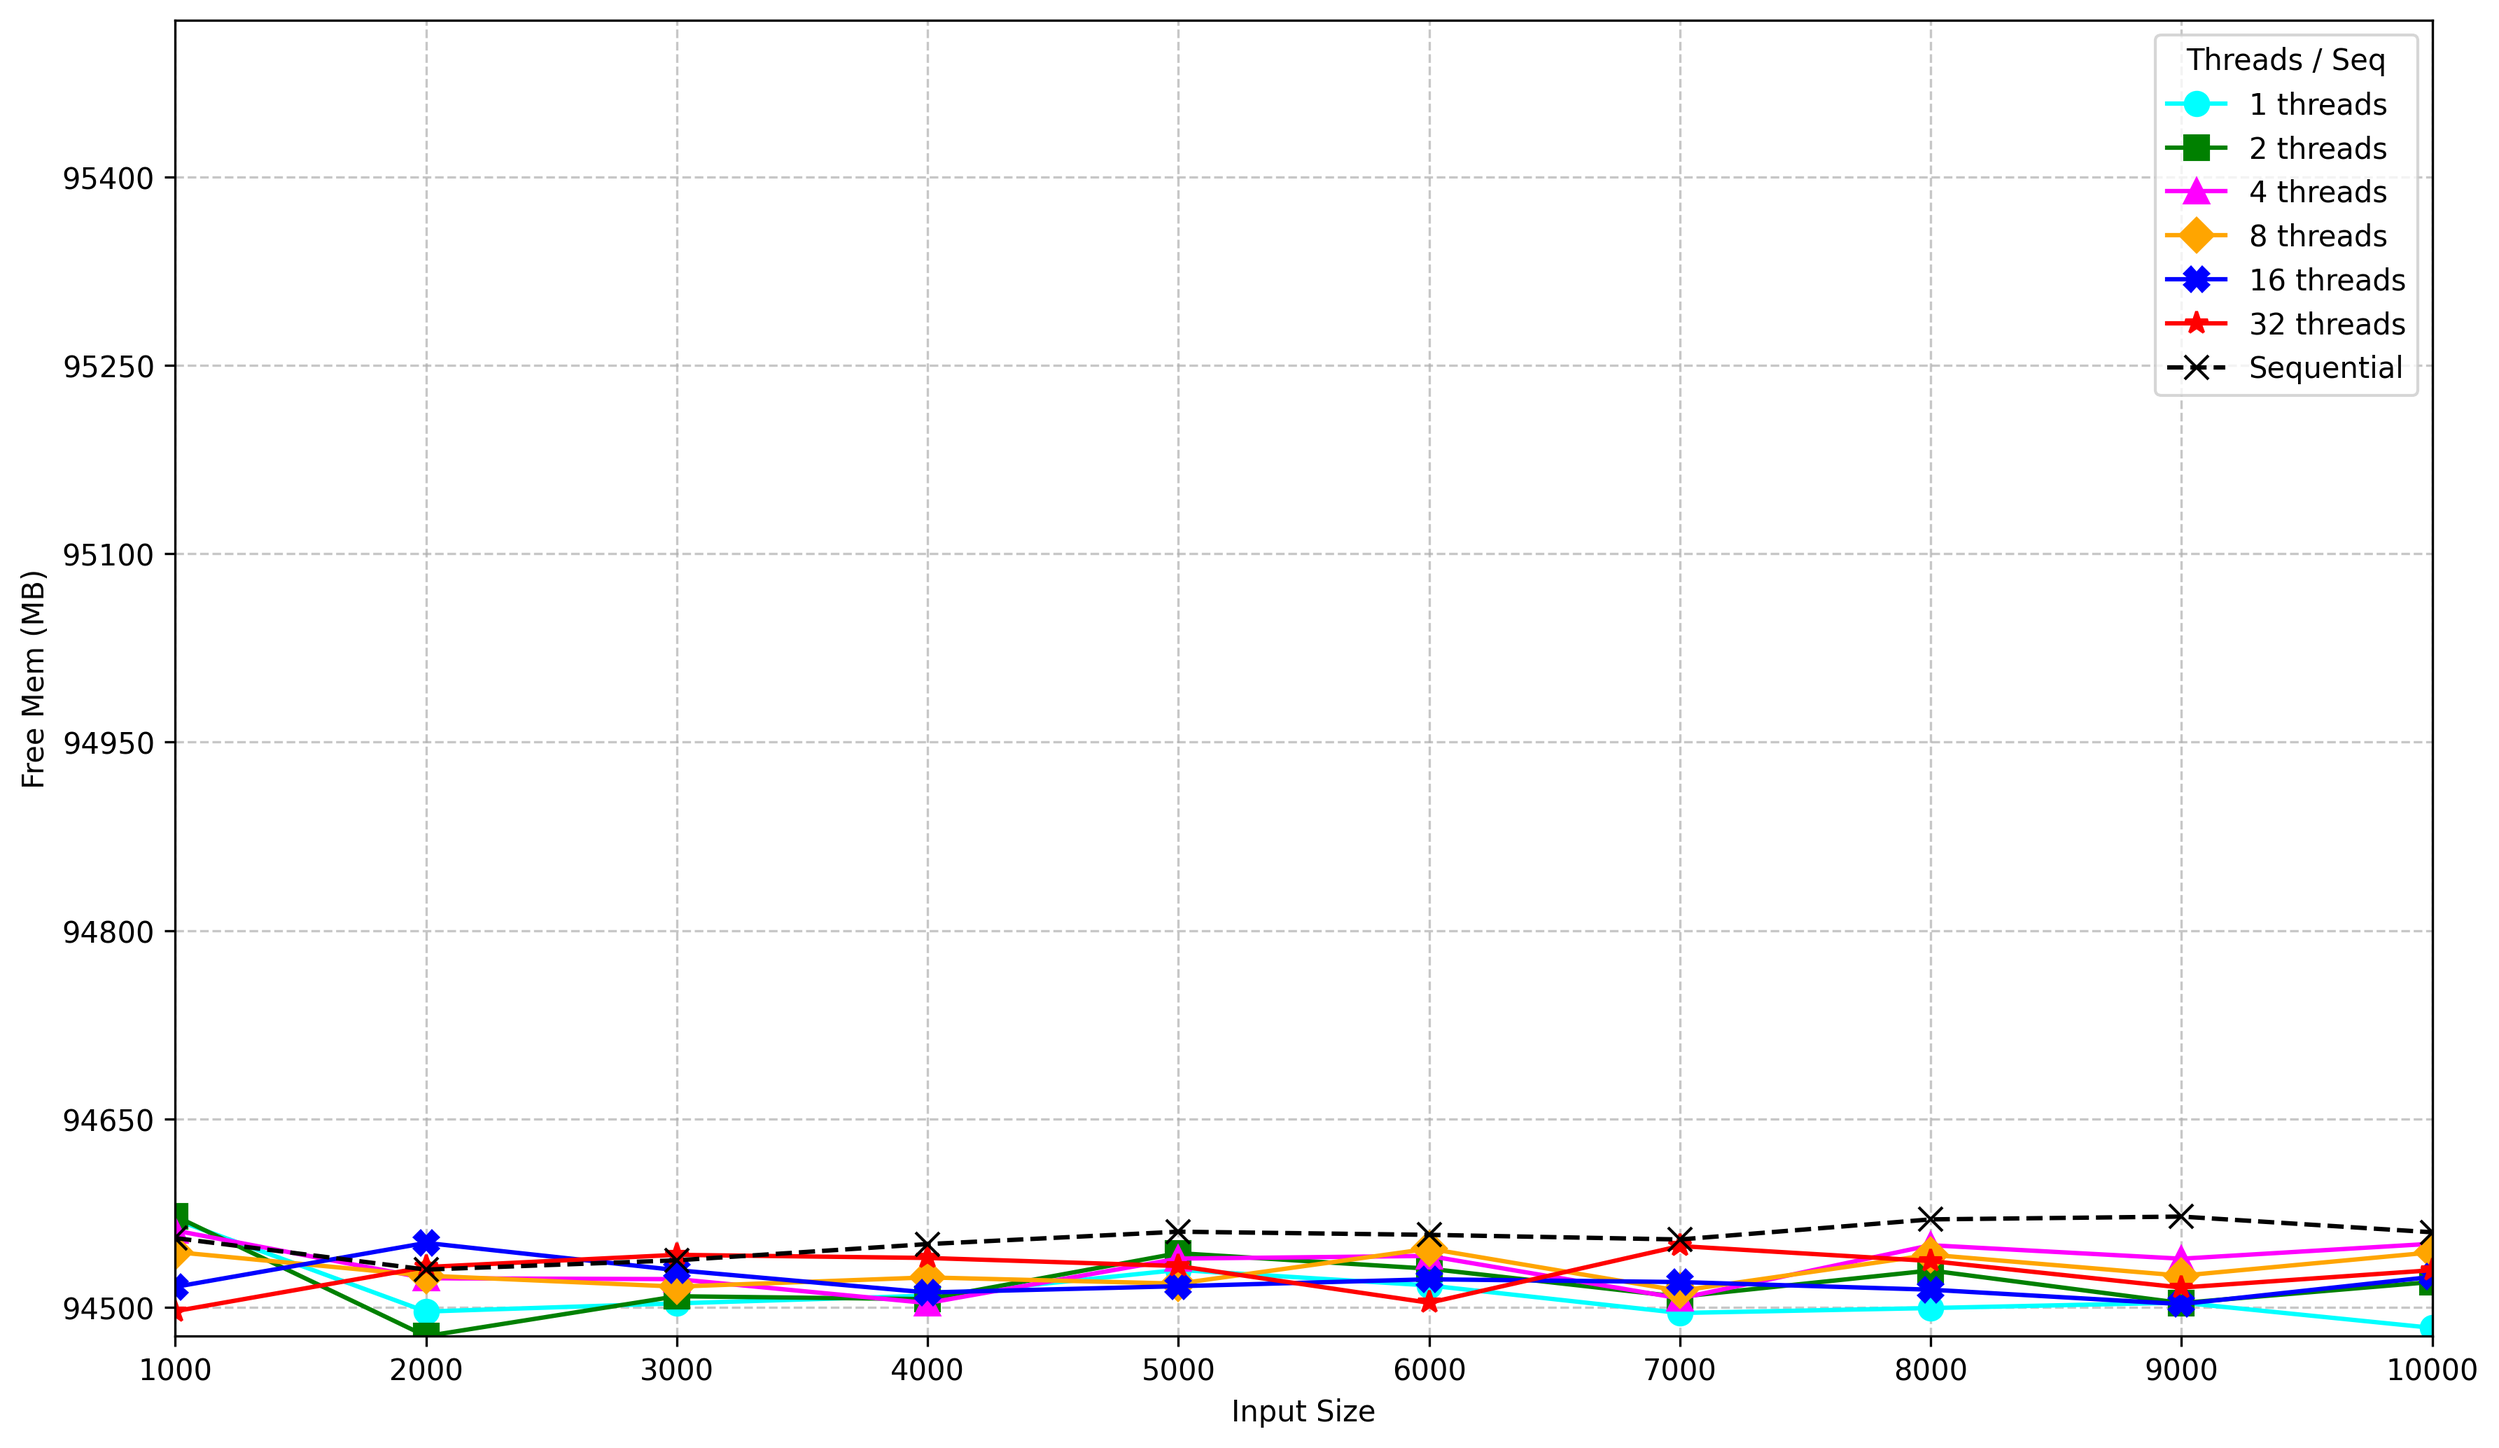
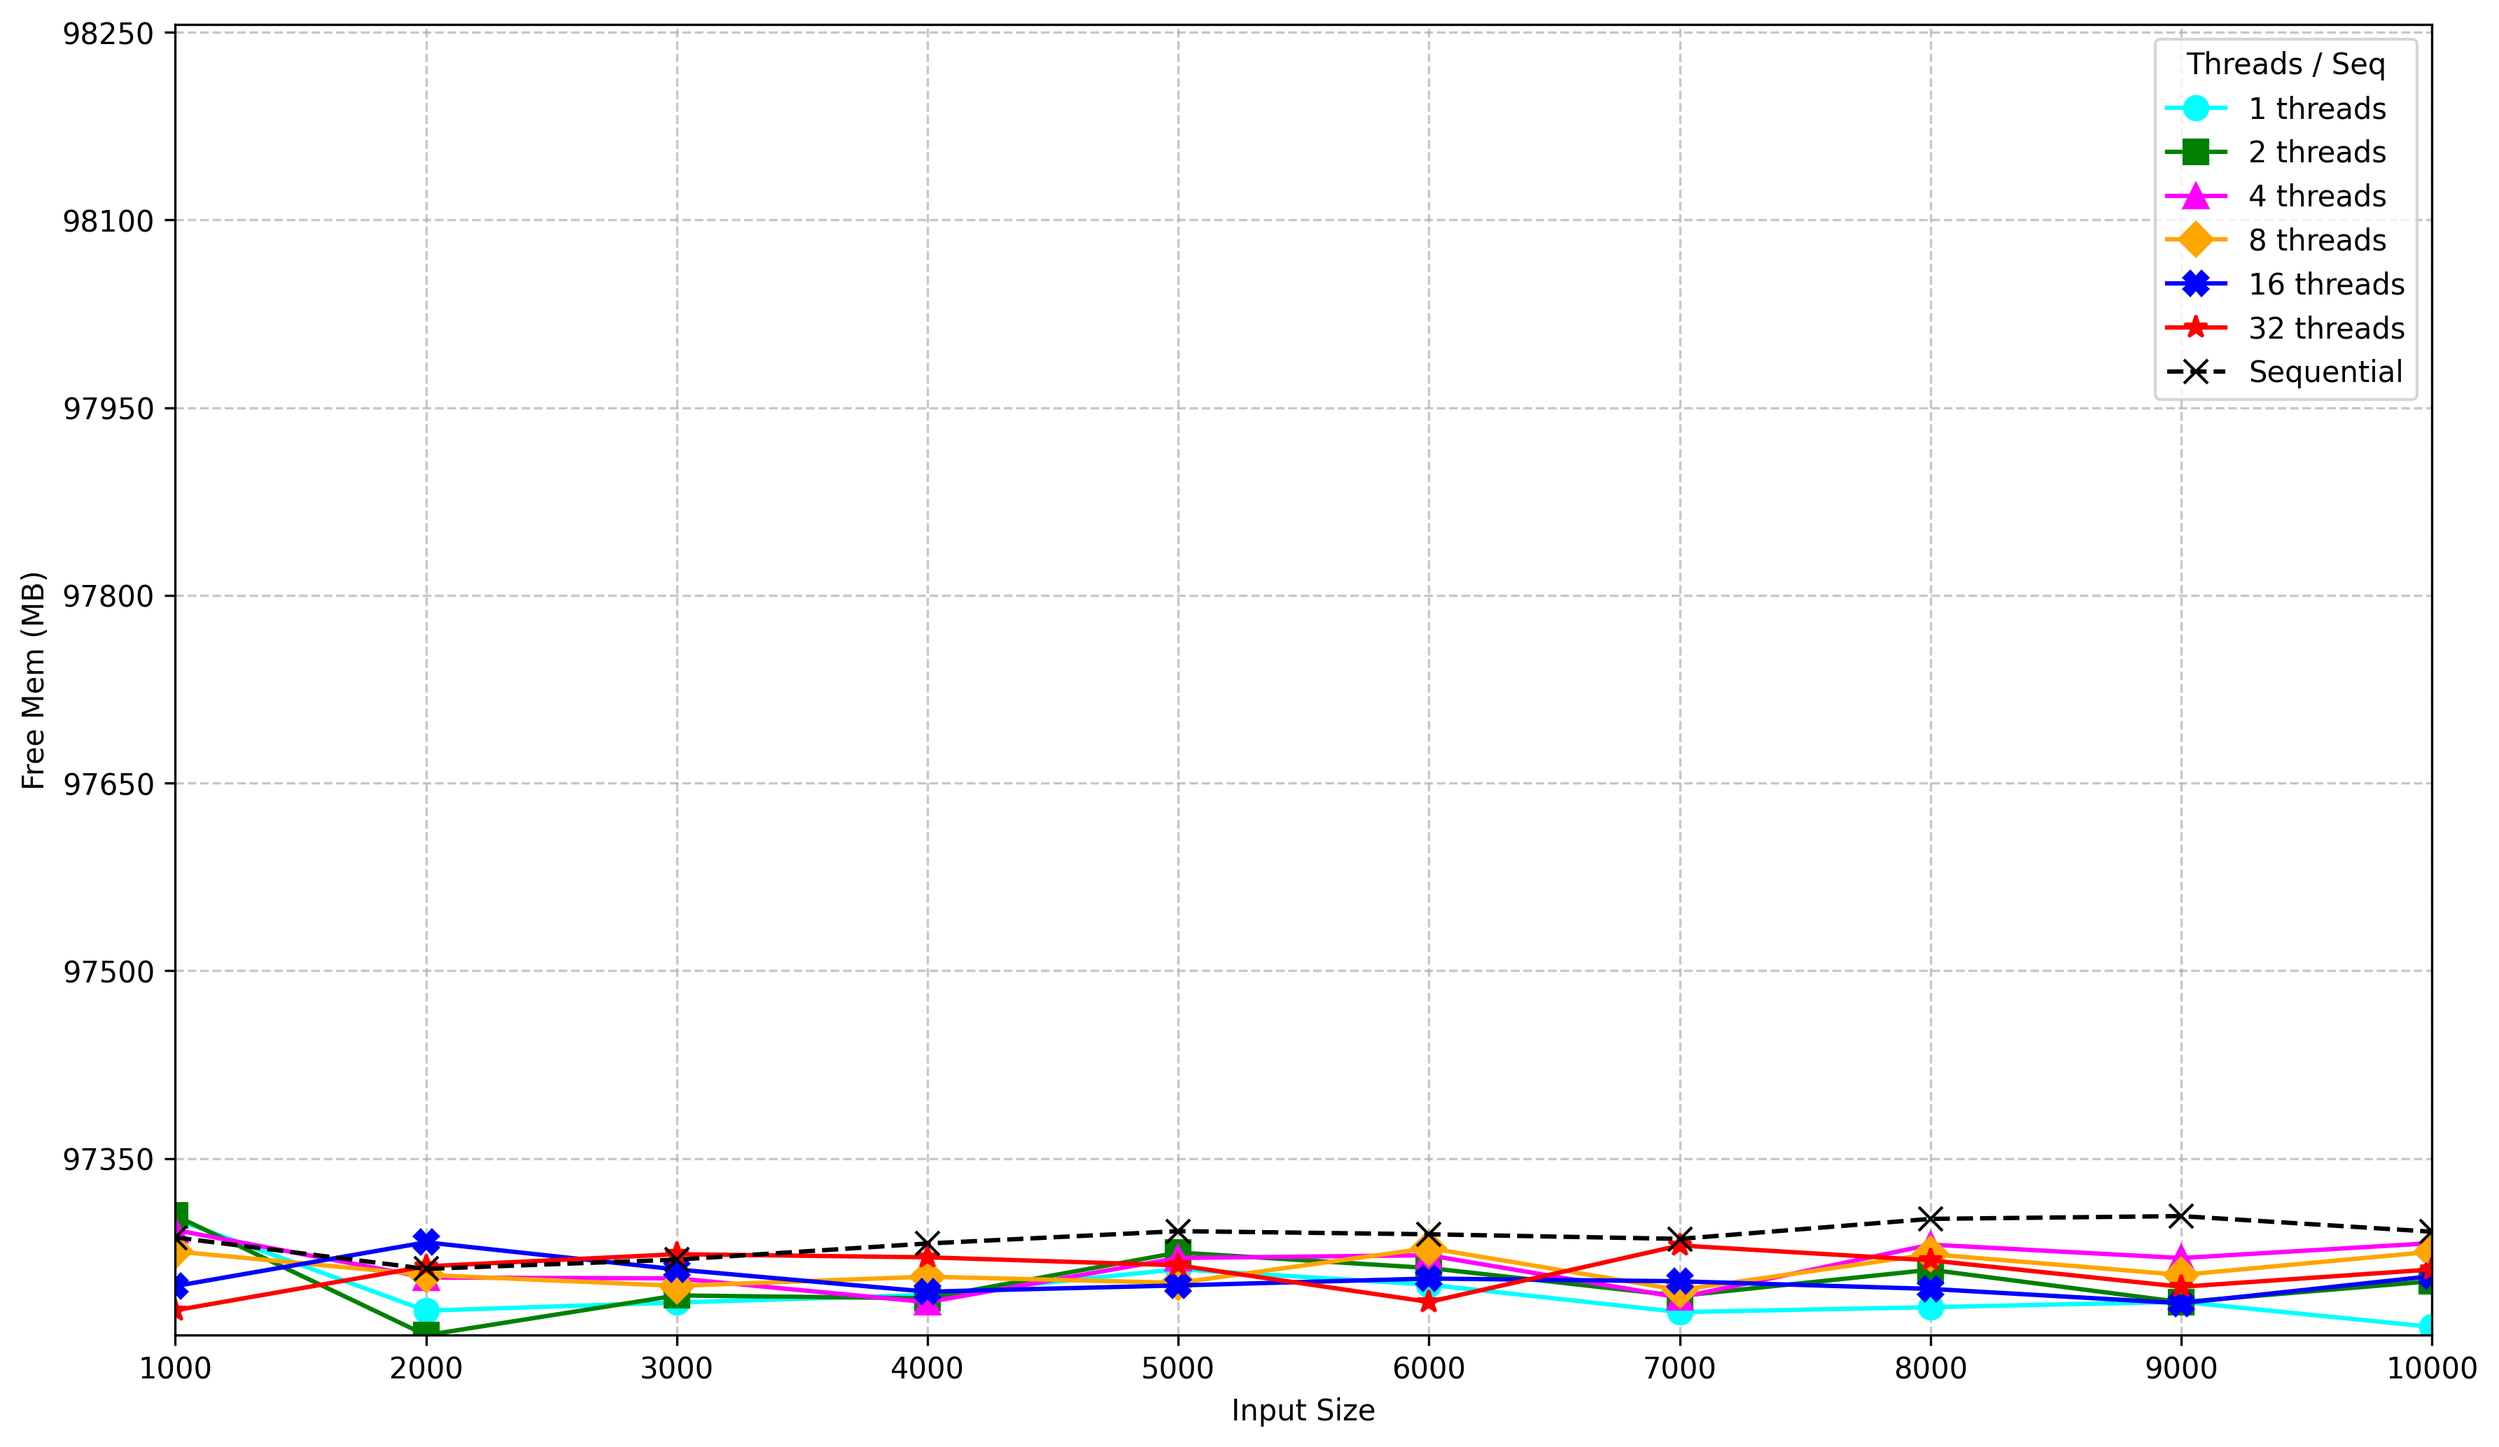
baseline memory not subtracted from total memory (for now), all wall time graphs have log scaling

diff --git a/Assignment2/plots/new_plot_stuff.py b/Assignment2/plots/new_plot_stuff.py
@@ -111,11 +111,11 @@ indep = {
 }
 
 #Other values:
-baseline_mem = 2797105 #calculated by taking sum of all baseline values and dividing by 60.
+baseline_mem = 0 #calculated by taking sum of all baseline values and dividing by 60.
 baseline_subtract_true = True #subtract or not from free/total memory.
 
 #enable log scale for wall_time?:
-log_scale = False
+log_scale = True
 #change log base to something else, e.g 2, 4, 6, etc.
 log_base = 10
 
@@ -586,7 +586,7 @@ def graph_time(parallel_csv, sequential_csv=None, data_label="", date_prefix="",
 
     # labels & grid
     ax.set_xlabel('Input Size')
-    ax.set_ylabel('Average Wall Time (ms)')
+    ax.set_ylabel('Wall Time Log Scale (ms)')
     ax.set_xticks(x_positions)
     ax.set_xticklabels(input_sizes)
     ax.set_xlim(left=min(x_positions), right=max(x_positions))
@@ -595,11 +595,11 @@ def graph_time(parallel_csv, sequential_csv=None, data_label="", date_prefix="",
     
     #checks to see if the file is imperative. otherwise, even if log scale is enabled, it won't do it for 
     #functional paradigm plots.
-    lcname = os.path.basename(parallel_csv).lower()
-    is_imp = ("imp" in lcname) or ("imperative" in lcname)
+    #lcname = os.path.basename(parallel_csv).lower()
+    #is_imp = ("imp" in lcname) or ("imperative" in lcname)
 
     # y-scale: log or linear
-    if log_scale and is_imp:
+    if log_scale:
         
         ax.set_yscale('log', base=log_base)
 
